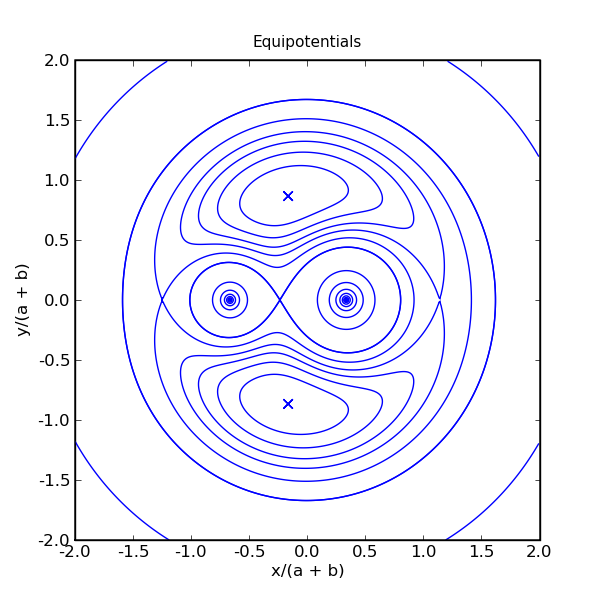
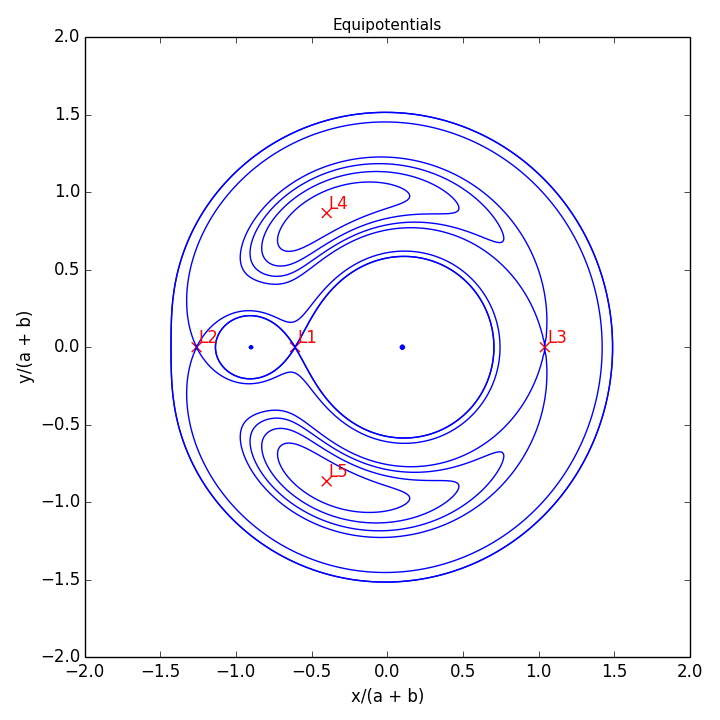
clean up and mark the Lagrange points -- needs more documentation

diff --git a/binary_exoplanets/equipotentials/equipotentials.py b/binary_exoplanets/equipotentials/equipotentials.py
@@ -5,7 +5,7 @@
 
 import math
 import numpy
-import pylab
+import matplotlib.pyplot as plt
 
 def equipotentials():
 
@@ -22,7 +22,7 @@ def equipotentials():
     dx = (xmax - xmin)/npts
     dy = (ymax - ymin)/npts
 
-    mu = 0.3333
+    mu = 0.1   #0.3333
 
     x = numpy.arange(npts, dtype=numpy.float64)*dx + xmin
     y = numpy.arange(npts, dtype=numpy.float64)*dy + ymin
@@ -37,8 +37,7 @@ def equipotentials():
     # find L1
     x0 = 0.0
 
-    n = 0
-    while (n < NITER):
+    for n in range(NITER):
     
         dVX = dVXdx(-1.0, 1.0, mu, x0)
         d2VX = d2VXdx2(-1.0, 1.0, mu, x0)
@@ -46,11 +45,11 @@ def equipotentials():
         x1 = x0 - dVX/d2VX
         err = abs(x1 - x0)/abs(x0 + EPS)
 
-        if (err < EPS):
+        if err < EPS:
             break
 
         x0 = x1
-        n += 1
+
 
     print n
 
@@ -62,8 +61,7 @@ def equipotentials():
     # find L2
     x0 = -1.0
 
-    n = 0
-    while (n < NITER):
+    for n in range(NITER):
     
         dVX = dVXdx(-1.0, -1.0, mu, x0)
         d2VX = d2VXdx2(-1.0, -1.0, mu, x0)
@@ -71,13 +69,11 @@ def equipotentials():
         x1 = x0 - dVX/d2VX
         err = abs(x1 - x0)/abs(x0 + EPS)
 
-        if (err < EPS):
+        if err < EPS:
             break
 
         x0 = x1
-        n += 1
 
-    print n
 
     x_L2 = x1
     y_L2 = 0.0
@@ -87,20 +83,18 @@ def equipotentials():
     # find L3
     x0 = 1.0
 
-    n = 0
-    while (n < NITER):
-    
+    for n in range(NITER):
+
         dVX = dVXdx(1.0, 1.0, mu, x0)
         d2VX = d2VXdx2(1.0, 1.0, mu, x0)
 
         x1 = x0 - dVX/d2VX
         err = abs(x1 - x0)/abs(x0 + EPS)
 
-        if (err < EPS):
+        if err < EPS:
             break
 
         x0 = x1
-        n += 1
 
     print n
 
@@ -133,27 +127,42 @@ def equipotentials():
     dlogC = (math.log10(Vmax) - math.log10(Vmin))/nC
     C2 = 10.0**(numpy.arange(nC, dtype=numpy.float64)*dlogC + math.log10(Vmin))
 
-    pylab.contour(x, y, V, C, colors="b")
-    pylab.contour(x, y, V, C2, colors="b")
-    pylab.contour(x, y, V, [V_L1], colors="b")
-    pylab.contour(x, y, V, [V_L2], colors="b")
-    pylab.contour(x, y, V, [V_L3], colors="b")
+    plt.contour(x, y, V, C, colors="b")
+    plt.contour(x, y, V, C2, colors="b")
+    plt.contour(x, y, V, [V_L1], colors="b")
+    plt.contour(x, y, V, [V_L2], colors="b")
+    plt.contour(x, y, V, [V_L3], colors="b")
  
-    # draw L4 and L5
-    pylab.scatter([x_L4], [y_L4], marker="x", color="b", s=200)
-    pylab.scatter([x_L5], [y_L5], marker="x", color="b", s=200)
+    # mark the Lagrange points and write the names
+    xeps = 0.025
 
+    plt.scatter([x_L1], [y_L1], marker="x", color="r", s=50)
+    plt.text(x_L1+xeps, y_L1+xeps, "L1", color="r")
+
+    plt.scatter([x_L2], [y_L2], marker="x", color="r", s=50)
+    plt.text(x_L2+xeps, y_L2+xeps, "L2", color="r")
+
+    plt.scatter([x_L3], [y_L3], marker="x", color="r", s=50)
+    plt.text(x_L3+xeps, y_L3+xeps, "L3", color="r")
+
+    plt.scatter([x_L4], [y_L4], marker="x", color="r", s=50)
+    plt.text(x_L4+xeps, y_L4+xeps, "L4", color="r")
+
+    plt.scatter([x_L5], [y_L5], marker="x", color="r", s=50)
+    plt.text(x_L5+xeps, y_L5+xeps, "L5", color="r")
        
-    pylab.axis([xmin,xmax,ymin,ymax])
+    plt.axis([xmin,xmax,ymin,ymax])
 
-    pylab.title(r"Equipotentials",fontsize=11)
-    pylab.xlabel("x/(a + b)")
-    pylab.ylabel("y/(a + b)")
+    plt.title(r"Equipotentials",fontsize=11)
+    plt.xlabel("x/(a + b)")
+    plt.ylabel("y/(a + b)")
 
-    f = pylab.gcf()
-    f.set_size_inches(6.0,6.0)
+    f = plt.gcf()
+    f.set_size_inches(7.2,7.2)
 
-    pylab.savefig("equipotentials.png")
+    plt.tight_layout()
+
+    plt.savefig("equipotentials.png")
 
 
 def Vf(mu, x, y):
@@ -176,8 +185,6 @@ def d2VXdx2(h1, h2, mu, x):
     d2VX = 2.0*h1*(1.0 - mu)/(x - mu)**3 + 2.0*h2*mu/(x + 1.0 - mu)**3 + 1.0
     
     return d2VX
-
-
 
 
 
